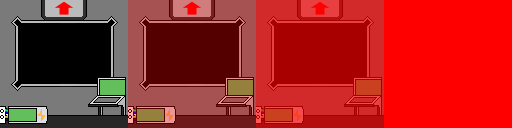
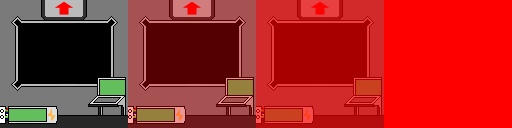
add energy text

Changed region(s): [[0.5625, 0.8125, 0.625, 0.9688], [0.3125, 0.8125, 0.375, 0.9688], [0.0625, 0.8125, 0.125, 0.9688]]

diff --git a/game.cpp b/game.cpp
@@ -406,7 +406,10 @@ void Game::run() {
 			vid[i].bg1.setMask(BG1Mask::filled(vec(0, 4), vec(8, 8)));
 			vid[i].bg1.image(vec(0,4), Ship, 0);
 		} else {
-			// vid[i].bg1.setMask(BG1Mask::filled(vec(7, 8), vec(4, 8)));
+      // set energy mask
+      vid[i].bg1.setMask(BG1Mask::filled(vec(0, 14), vec(4, 2)));
+      vid[i].bg1.setPanning(vec(-10, 5));
+
       showCharacter(i, vec(56, 64), 0);
 		}
 	}
@@ -627,10 +630,26 @@ void Game::hideShield() {
 }
 
 void Game::updateEnergy() {
-  // for (unsigned i = 1; i < kNumCubes; i++) {
-  //   String<8> energy;
-  //   energy << energies[i];
-  // }
+  String<8> energy;
+  for (unsigned i = 1; i < kNumCubes; i++) {
+    energy.clear();
+
+    if (energies[i] < 1000) {
+      energy << " ";
+    }
+
+    if (energies[i] < 100) {
+      energy << " ";
+    }
+
+    if (energies[i] < 10) {
+      energy << " ";
+    }
+
+    energy << energies[i];
+
+    vid[i].bg1.text(vec(0, 14), Font, energy);
+  }
 }
 
 void Game::showCharacter(unsigned id, Int2 pos, int frame) {
